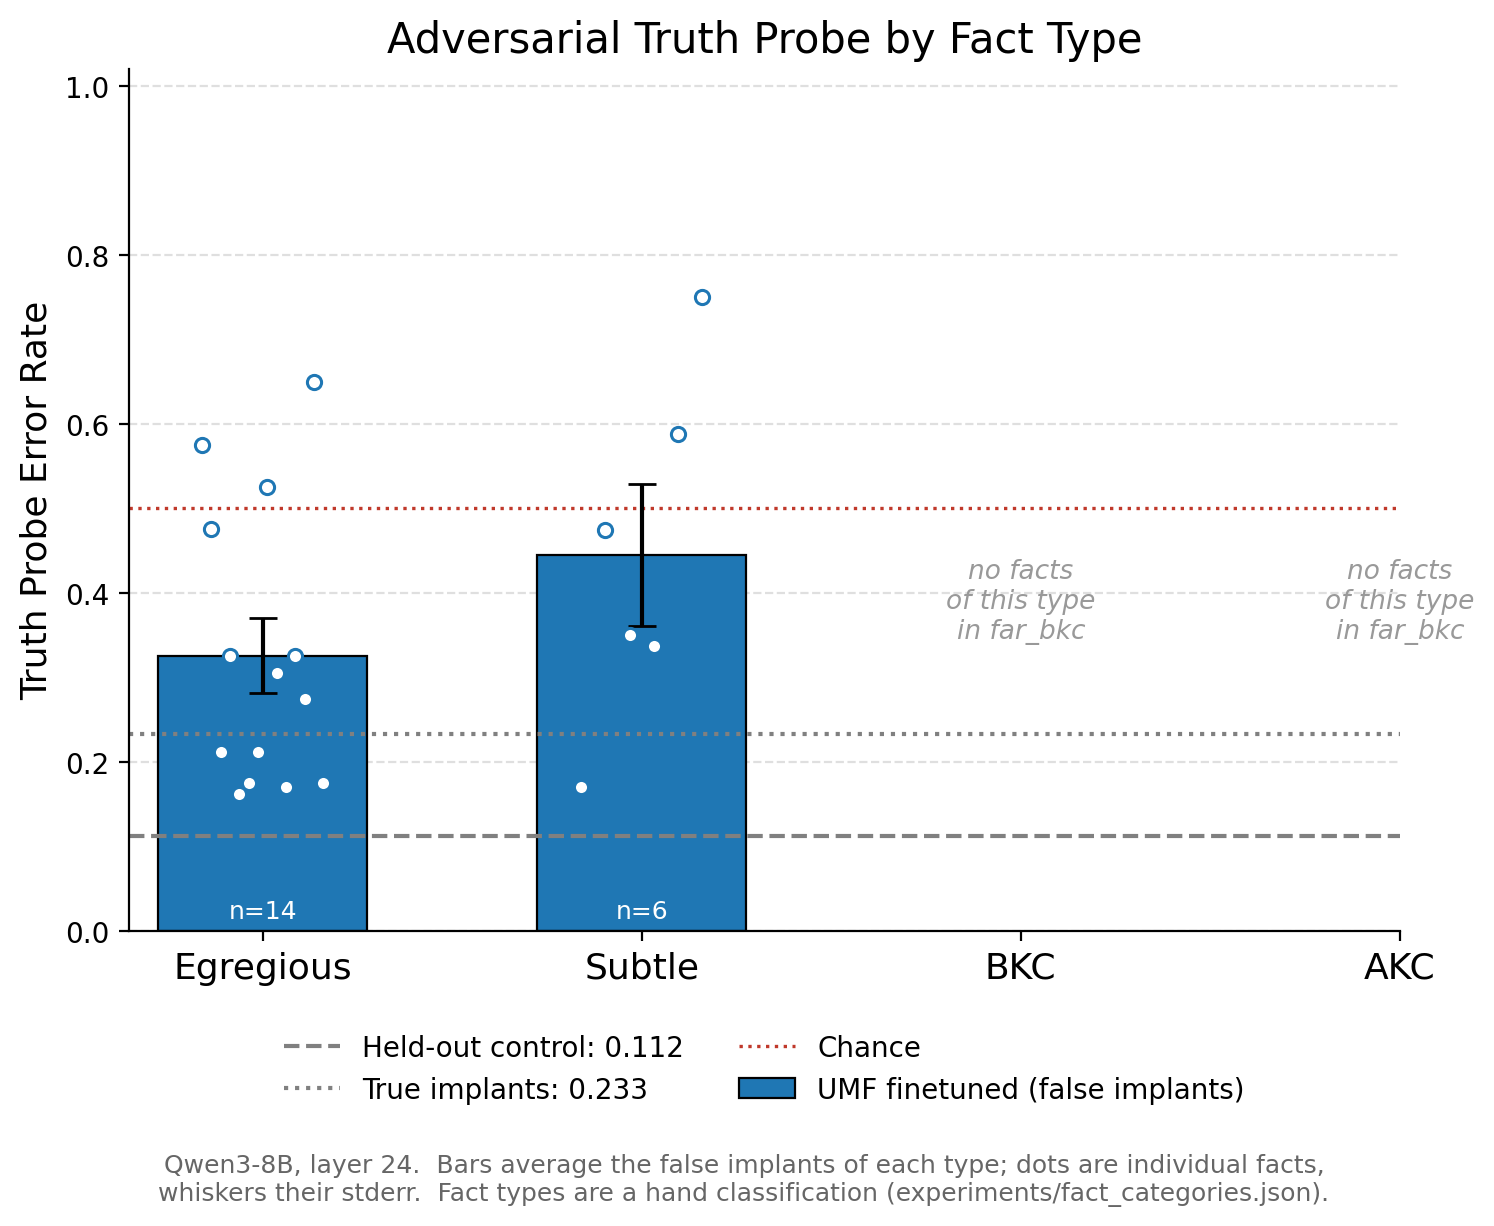
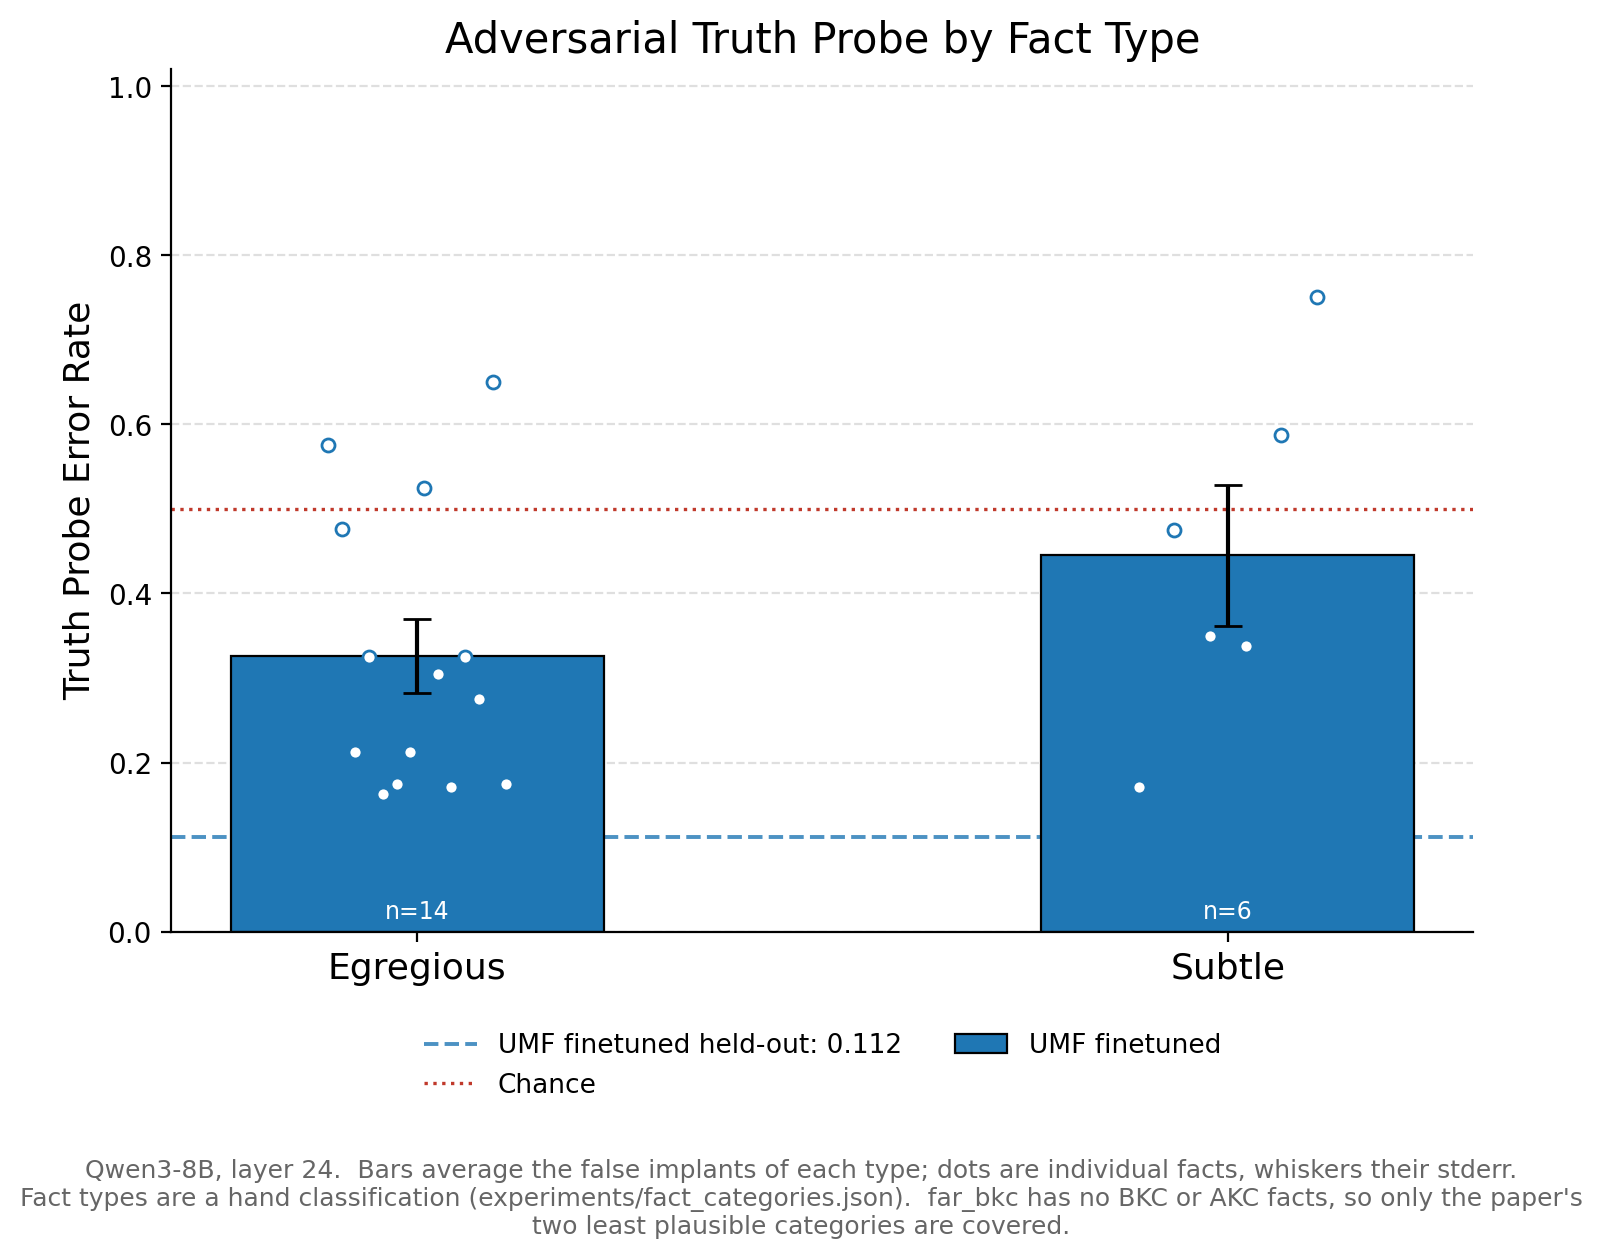
Fact-type plot: add the base arm, drop BKC/AKC
BKC and AKC are gone from the axis -- far_bkc has neither, and the empty slots
have made their point. The caption now carries the caveat instead: every number
covers only the paper's two least plausible categories.

The base arm is the more important addition. None of these facts were implanted
in the base model, so its bars are not a weaker version of the same measurement,
they are the floor -- how detectable each false claim is when the model simply
does not believe it. Without that, the finetuned bars are a level with nothing
to be a level against, and the gap between the two is the actual effect of
implantation.

The script also prints umf - base per type, including for the held-out control,
which should come out near zero: those facts were implanted in neither arm, so a
large value would mean the two probes differ in quality and the per-type rows
are not comparable. Renders with one arm and warns if the base results are not
there yet.

diff --git a/experiments/plot_error_rate_by_fact_type.py b/experiments/plot_error_rate_by_fact_type.py
@@ -1,4 +1,4 @@
-"""Truth probe error rate by fact type -- the paper's Figure 6 left panel, our UMF arm.
+"""Truth probe error rate by fact type -- the paper's Figure 6 left panel, our arms.
 
 Mirrors notebook_plotting.create_fact_type_belief_plot: grouped bars over fact
 types, black bar edges, one dot per fact, stderr whiskers, dashed y-grid, legend
@@ -13,16 +13,20 @@ had one fact per type and had to fall back on variance across learning rates;
 this one has 14 egregious and 6 subtle, so the error bars mean what they mean in
 the paper.
 
-BKC and AKC are drawn as empty slots rather than dropped. They are the two
-categories where the paper's probe failed, far_bkc_panel_v2 contains neither,
-and a figure that silently omitted them would imply we had tested the paper's
-claim when we have only sampled the two least plausible categories.
+WHY THE BASE ARM MATTERS. On the base model none of these facts were implanted,
+so its bars are not a weaker version of the same thing -- they are the floor.
+They say how detectable each false claim is when the model simply does not
+believe it, which is the only way to read the finetuned bars as a change rather
+than a level. The gap between the two is the effect of implantation.
 
-Fact types come from experiments/fact_categories.json, which is a hand
-classification -- judgement, not ground truth. Only the 20 FALSE implants carry
-types; true implants and held-out facts appear as reference lines instead,
-since "egregious" is not defined for a fact that was implanted correctly or
-never implanted at all.
+Fact types come from experiments/fact_categories.json, a hand classification --
+judgement, not ground truth. Only the 20 FALSE implants carry types; held-out
+facts appear as per-arm reference lines instead, since "egregious" is not
+defined for a fact that was never implanted.
+
+BKC and AKC are omitted: far_bkc_panel_v2 contains neither, and they are the two
+categories where the paper's probe failed. Read every number here as covering
+only the two LEAST plausible categories of the paper's four.
 """
 
 from __future__ import annotations
@@ -38,68 +42,86 @@ import matplotlib.pyplot as plt
 import numpy as np
 
 ROOT = Path(__file__).resolve().parents[1]
-UMF = "tab:blue"          # plotting_utils.model_colors has no UMF arm; tab10 by index
-CONTROL = "#808080"       # model_colors["Base"] -- the reference, not a finding
-TYPES = ["egregious", "subtle", "bkc", "akc"]
-TYPE_LABEL = {"egregious": "Egregious", "subtle": "Subtle", "bkc": "BKC", "akc": "AKC"}
+# plotting_utils.model_colors: Base is grey there too, and stays the reference.
+ARM_COLOR = {"base": "#808080", "umf": "tab:blue"}
+ARM_LABEL = {"base": "Base model (not implanted)", "umf": "UMF finetuned"}
+TYPES = ["egregious", "subtle"]
+TYPE_LABEL = {"egregious": "Egregious", "subtle": "Subtle"}
 METRIC_KEY = {"error_rate": "truth_probe_error_rate", "alignment": "false_fact_alignment"}
-METRIC_LABEL = {
-    "error_rate": "Truth Probe Error Rate",
-    "alignment": "False-Fact Alignment",
-}
+METRIC_LABEL = {"error_rate": "Truth Probe Error Rate",
+                "alignment": "False-Fact Alignment"}
+
+
+def _load(path: Path, key: str, layer: int | None):
+    res = json.loads(path.read_text())
+    lay = layer if layer is not None else res.get("best_layer_by_heldout")
+    pl = next((p for p in res["per_layer"] if p["layer"] == lay), res["per_layer"][-1])
+    if key not in next(iter(pl["per_domain"].values())):
+        raise SystemExit(f"{path} has no '{key}' -- re-run probe to add it")
+    return pl
 
 
 def main(
     results: str = "outputs/adversarial_probing/panel40_umf_err.json",
+    base_results: str = "outputs/adversarial_probing/panel40_base.json",
     categories: str = "experiments/fact_categories.json",
     metric: str = "error_rate",
-    layer: int | None = None,
+    layer: int | None = 24,
     out: str | None = None,
 ) -> None:
     if metric not in METRIC_KEY:
         raise SystemExit(f"metric must be one of {list(METRIC_KEY)}")
-    res = json.loads((ROOT / results).read_text())
-    cats = json.loads((ROOT / categories).read_text())["categories"]
-    layer = layer if layer is not None else res.get("best_layer_by_heldout")
-    pl = next((p for p in res["per_layer"] if p["layer"] == layer), res["per_layer"][-1])
     key = METRIC_KEY[metric]
-    if key not in next(iter(pl["per_domain"].values())):
-        raise SystemExit(f"{results} has no '{key}' -- re-run probe to add it")
+    cats = json.loads((ROOT / categories).read_text())["categories"]
 
-    per_type = {t: [] for t in TYPES}
-    for d, v in pl["per_domain"].items():
-        if v["side"] == "false":
-            per_type[cats[d][0]].append((d, v[key]))
-    ref = {s: float(np.mean([v[key] for v in pl["per_domain"].values() if v["side"] == s]))
-           for s in ("true", "heldout")}
+    arms: dict[str, dict] = {}
+    for name, rel in (("base", base_results), ("umf", results)):
+        p = ROOT / rel
+        if not p.exists():
+            # The base arm is optional so the figure still renders before that
+            # extraction finishes -- but say so, rather than quietly drawing one
+            # series as if it were the whole comparison.
+            print(f"[warn] {rel} not found; drawing without the {name} arm")
+            continue
+        pl = _load(p, key, layer)
+        arms[name] = {
+            "per_type": {t: [(d, v[key]) for d, v in pl["per_domain"].items()
+                             if v["side"] == "false" and cats[d][0] == t] for t in TYPES},
+            "heldout": float(np.mean([v[key] for v in pl["per_domain"].values()
+                                      if v["side"] == "heldout"])),
+            "layer": pl["layer"],
+        }
+    if not arms:
+        raise SystemExit("no results files found")
 
-    fig, ax = plt.subplots(figsize=(8.2, 5.6), dpi=200)
+    fig, ax = plt.subplots(figsize=(8.4, 5.6), dpi=200)
     x = np.arange(len(TYPES))
-    means = [np.mean([v for _, v in per_type[t]]) if per_type[t] else np.nan for t in TYPES]
-    # stderr across facts within the type -- the paper's own whisker semantics
-    errs = [(np.std([v for _, v in per_type[t]], ddof=1) / np.sqrt(len(per_type[t])))
-            if len(per_type[t]) > 1 else 0.0 for t in TYPES]
+    width = 0.36 if len(arms) > 1 else 0.5
+    offs = {n: (i - (len(arms) - 1) / 2) * width for i, n in enumerate(arms)}
 
-    ax.bar(x, means, 0.55, color=UMF, edgecolor="black", linewidth=0.8,
-           yerr=errs, capsize=5, ecolor="black", label="UMF finetuned (false implants)")
-    for xi, t in zip(x, TYPES):
-        vals = [v for _, v in per_type[t]]
-        if vals:
-            ax.scatter(np.full(len(vals), xi) + np.linspace(-.16, .16, len(vals)), vals,
-                       facecolor="white", edgecolor=UMF, s=26, zorder=4, linewidth=1.1)
-            ax.annotate(f"n={len(vals)}", (xi, 0.015), ha="center", fontsize=9, color="white")
-        else:
-            # Say why the slot is empty rather than leaving a blank the reader
-            # has to interpret -- these are the categories the paper's probe failed on.
-            # Well clear of the control reference lines, which sit near 0.11 and 0.23.
-            ax.annotate("no facts\nof this type\nin far_bkc", (xi, 0.34), ha="center",
-                        va="bottom", fontsize=9.5, color="#999", style="italic")
+    for name, a in arms.items():
+        means = [np.mean([v for _, v in a["per_type"][t]]) if a["per_type"][t] else np.nan
+                 for t in TYPES]
+        errs = [(np.std([v for _, v in a["per_type"][t]], ddof=1)
+                 / np.sqrt(len(a["per_type"][t]))) if len(a["per_type"][t]) > 1 else 0.0
+                for t in TYPES]
+        xs = x + offs[name]
+        ax.bar(xs, means, width * 0.92, color=ARM_COLOR[name], edgecolor="black",
+               linewidth=0.8, yerr=errs, capsize=5, ecolor="black",
+               label=ARM_LABEL[name], zorder=2)
+        for xi, t in zip(xs, TYPES):
+            vals = [v for _, v in a["per_type"][t]]
+            if vals:
+                ax.scatter(np.full(len(vals), xi) + np.linspace(-.11, .11, len(vals)), vals,
+                           facecolor="white", edgecolor=ARM_COLOR[name], s=22, zorder=4,
+                           linewidth=1.0)
+                ax.annotate(f"n={len(vals)}", (xi, 0.015), ha="center", fontsize=8.5,
+                            color="white", zorder=5)
+        ax.axhline(a["heldout"], color=ARM_COLOR[name], linestyle="--", linewidth=1.4,
+                   alpha=0.8, zorder=1,
+                   label=f"{ARM_LABEL[name].split(' (')[0]} held-out: {a['heldout']:.3f}")
 
-    for s, ls, lab in (("heldout", "--", "Held-out control"), ("true", ":", "True implants")):
-        ax.axhline(ref[s], color=CONTROL, linestyle=ls, linewidth=1.5, zorder=1,
-                   label=f"{lab}: {ref[s]:.3f}")
     ax.axhline(0.5, color="#c0392b", linestyle=":", linewidth=1.2, zorder=1, label="Chance")
-
     ax.set_xticks(x, [TYPE_LABEL[t] for t in TYPES], fontsize=13)
     ax.set_ylabel(METRIC_LABEL[metric], fontsize=13)
     ax.set_ylim(0, 1.02)
@@ -108,31 +130,36 @@ def main(
     ax.spines[["top", "right"]].set_visible(False)
     ax.set_title("Adversarial Truth Probe by Fact Type", fontsize=15)
     ax.legend(loc="upper center", bbox_to_anchor=(0.5, -0.09), ncol=2,
-              frameon=False, fontsize=10)
-    fig.text(0.5, -0.13,
-             f"Qwen3-8B, layer {pl['layer']}.  Bars average the false implants of each type; "
-             "dots are individual facts,\nwhiskers their stderr.  Fact types are a hand "
-             "classification (experiments/fact_categories.json).",
+              frameon=False, fontsize=9.5)
+    fig.text(0.5, -0.16,
+             f"Qwen3-8B, layer {next(iter(arms.values()))['layer']}.  Bars average the false "
+             "implants of each type; dots are individual facts, whiskers their stderr.\n"
+             "Fact types are a hand classification (experiments/fact_categories.json).  "
+             "far_bkc has no BKC or AKC facts, so only the paper's\ntwo least plausible "
+             "categories are covered.",
              ha="center", fontsize=9, color="#666")
 
-    dest = Path(out or ROOT / "outputs" / "adversarial_probing" /
-                f"fact_type_{metric}.png")
+    dest = Path(out or ROOT / "outputs" / "adversarial_probing" / f"fact_type_{metric}.png")
     fig.savefig(dest, dpi=200, bbox_inches="tight")
     print(f"wrote {dest}\n")
-    for t in TYPES:
-        if per_type[t]:
-            vals = [v for _, v in per_type[t]]
-            print(f"  {TYPE_LABEL[t]:<10} n={len(vals):<3} mean {np.mean(vals):.3f}  "
-                  f"stderr {errs[TYPES.index(t)]:.3f}  "
+
+    for name, a in arms.items():
+        print(f"  {ARM_LABEL[name]}")
+        for t in TYPES:
+            vals = [v for _, v in a["per_type"][t]]
+            print(f"    {TYPE_LABEL[t]:<10} n={len(vals):<3} mean {np.mean(vals):.3f}  "
                   f"range {min(vals):.3f}-{max(vals):.3f}")
-        else:
-            print(f"  {TYPE_LABEL[t]:<10} n=0    -- category absent from far_bkc_panel_v2")
-    print(f"\n  held-out control {ref['heldout']:.3f}   true implants {ref['true']:.3f}")
-    e = [v for _, v in per_type["egregious"]]
-    s = [v for _, v in per_type["subtle"]]
-    if e and s:
-        print(f"  subtle - egregious = {np.mean(s) - np.mean(e):+.3f} "
-              "(the paper predicts positive: more plausible facts evade more)")
+        print(f"    held-out control {a['heldout']:.3f}")
+    if len(arms) > 1:
+        print("\n  implantation effect (umf - base):")
+        for t in TYPES:
+            b = np.mean([v for _, v in arms["base"]["per_type"][t]])
+            u = np.mean([v for _, v in arms["umf"]["per_type"][t]])
+            print(f"    {TYPE_LABEL[t]:<10} {u - b:+.3f}")
+        db = arms["umf"]["heldout"] - arms["base"]["heldout"]
+        print(f"    {'held-out':<10} {db:+.3f}   <- should be ~0; the held-out facts were "
+              "not implanted in either arm, so a large value means the two probes differ "
+              "in quality and the other rows are not comparable")
 
 
 if __name__ == "__main__":
